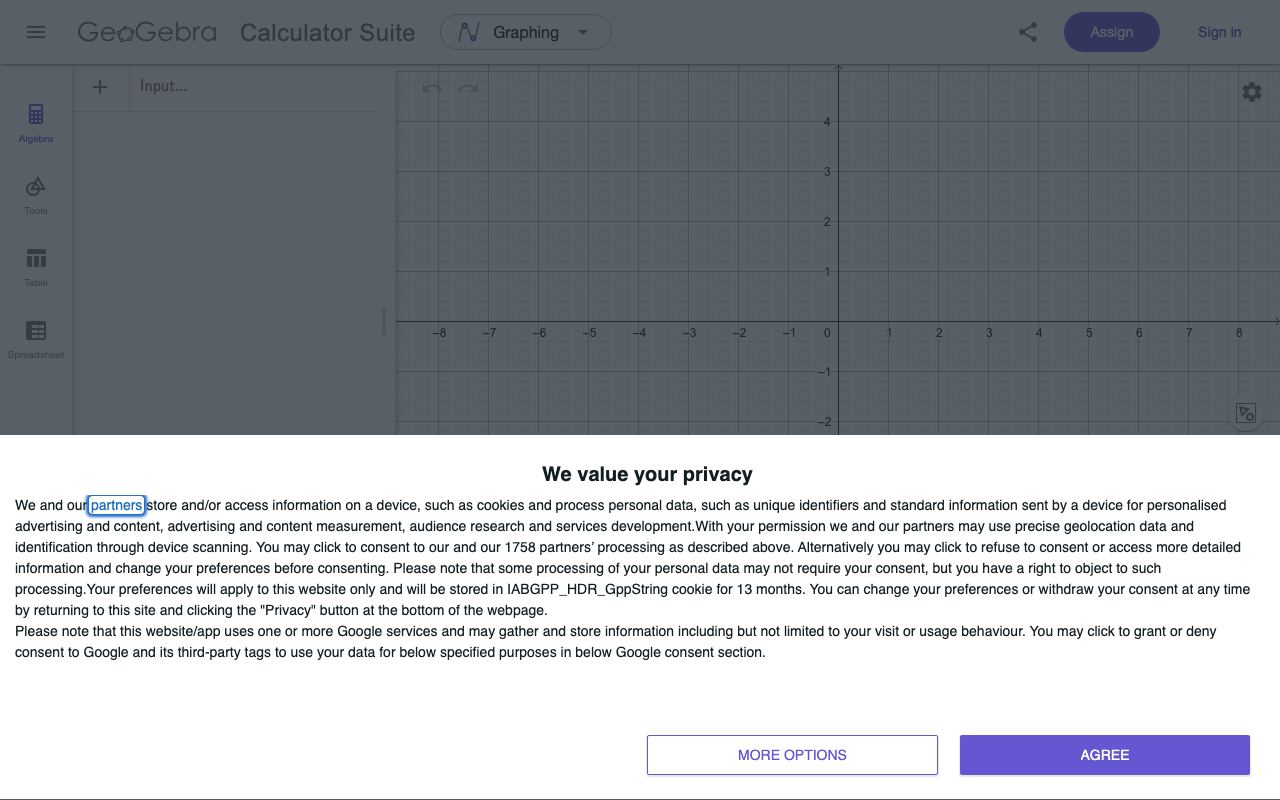
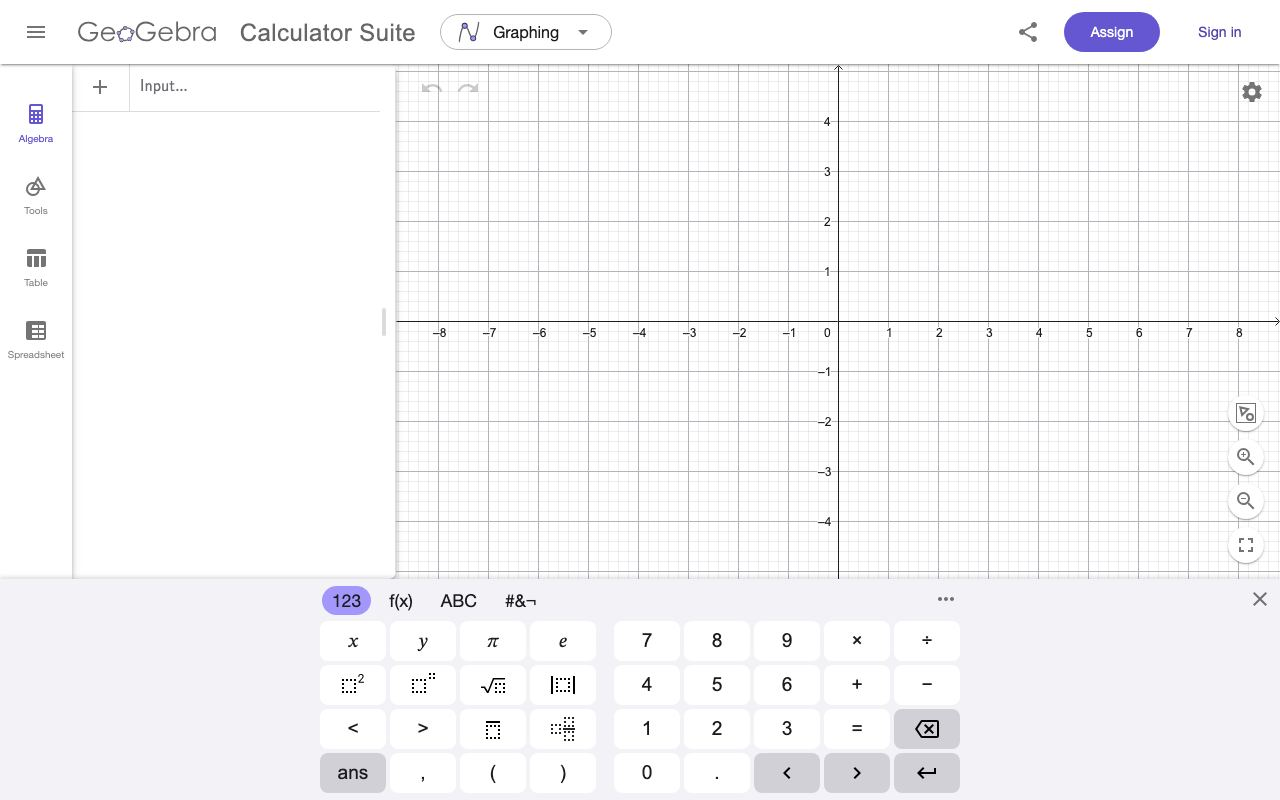
updating mobile animation

diff --git a/README.md b/README.md
@@ -74,6 +74,10 @@ tags: ['finance']
 
 인터랙티브 글은 `.astro` 페이지와 별도 컴포넌트·데이터로 구성됩니다. `.astro` 파일을 추가하는 것만으로 Markdown 기반 블로그 목록에 등록되지는 않으므로 해당 목록의 메타데이터도 연결해야 합니다. 식당 기록 입력 규칙은 [식당 데이터 안내](src/data/korean-restaurants/README.md)를 참고하세요.
 
+### 웹사이트 모음
+
+`/mathblog/blog/websites/`의 사이트 목록은 `src/data/websites.ts`에서 관리합니다. 썸네일은 `public/images/websites/`에 저장하며, 사이트 추가·이미지 교체 방법은 [웹사이트 카탈로그 안내](src/data/websites/README.md)를 참고하세요.
+
 ### 프로젝트·연구
 
 프로젝트 페이지는 `src/pages/projects/`, 한국어 대응 페이지는 `src/pages/ko/projects/`에 있습니다. 프로젝트 목록은 `src/data/home.ts`와 `src/data/home-ko.ts`에서 관리합니다.
